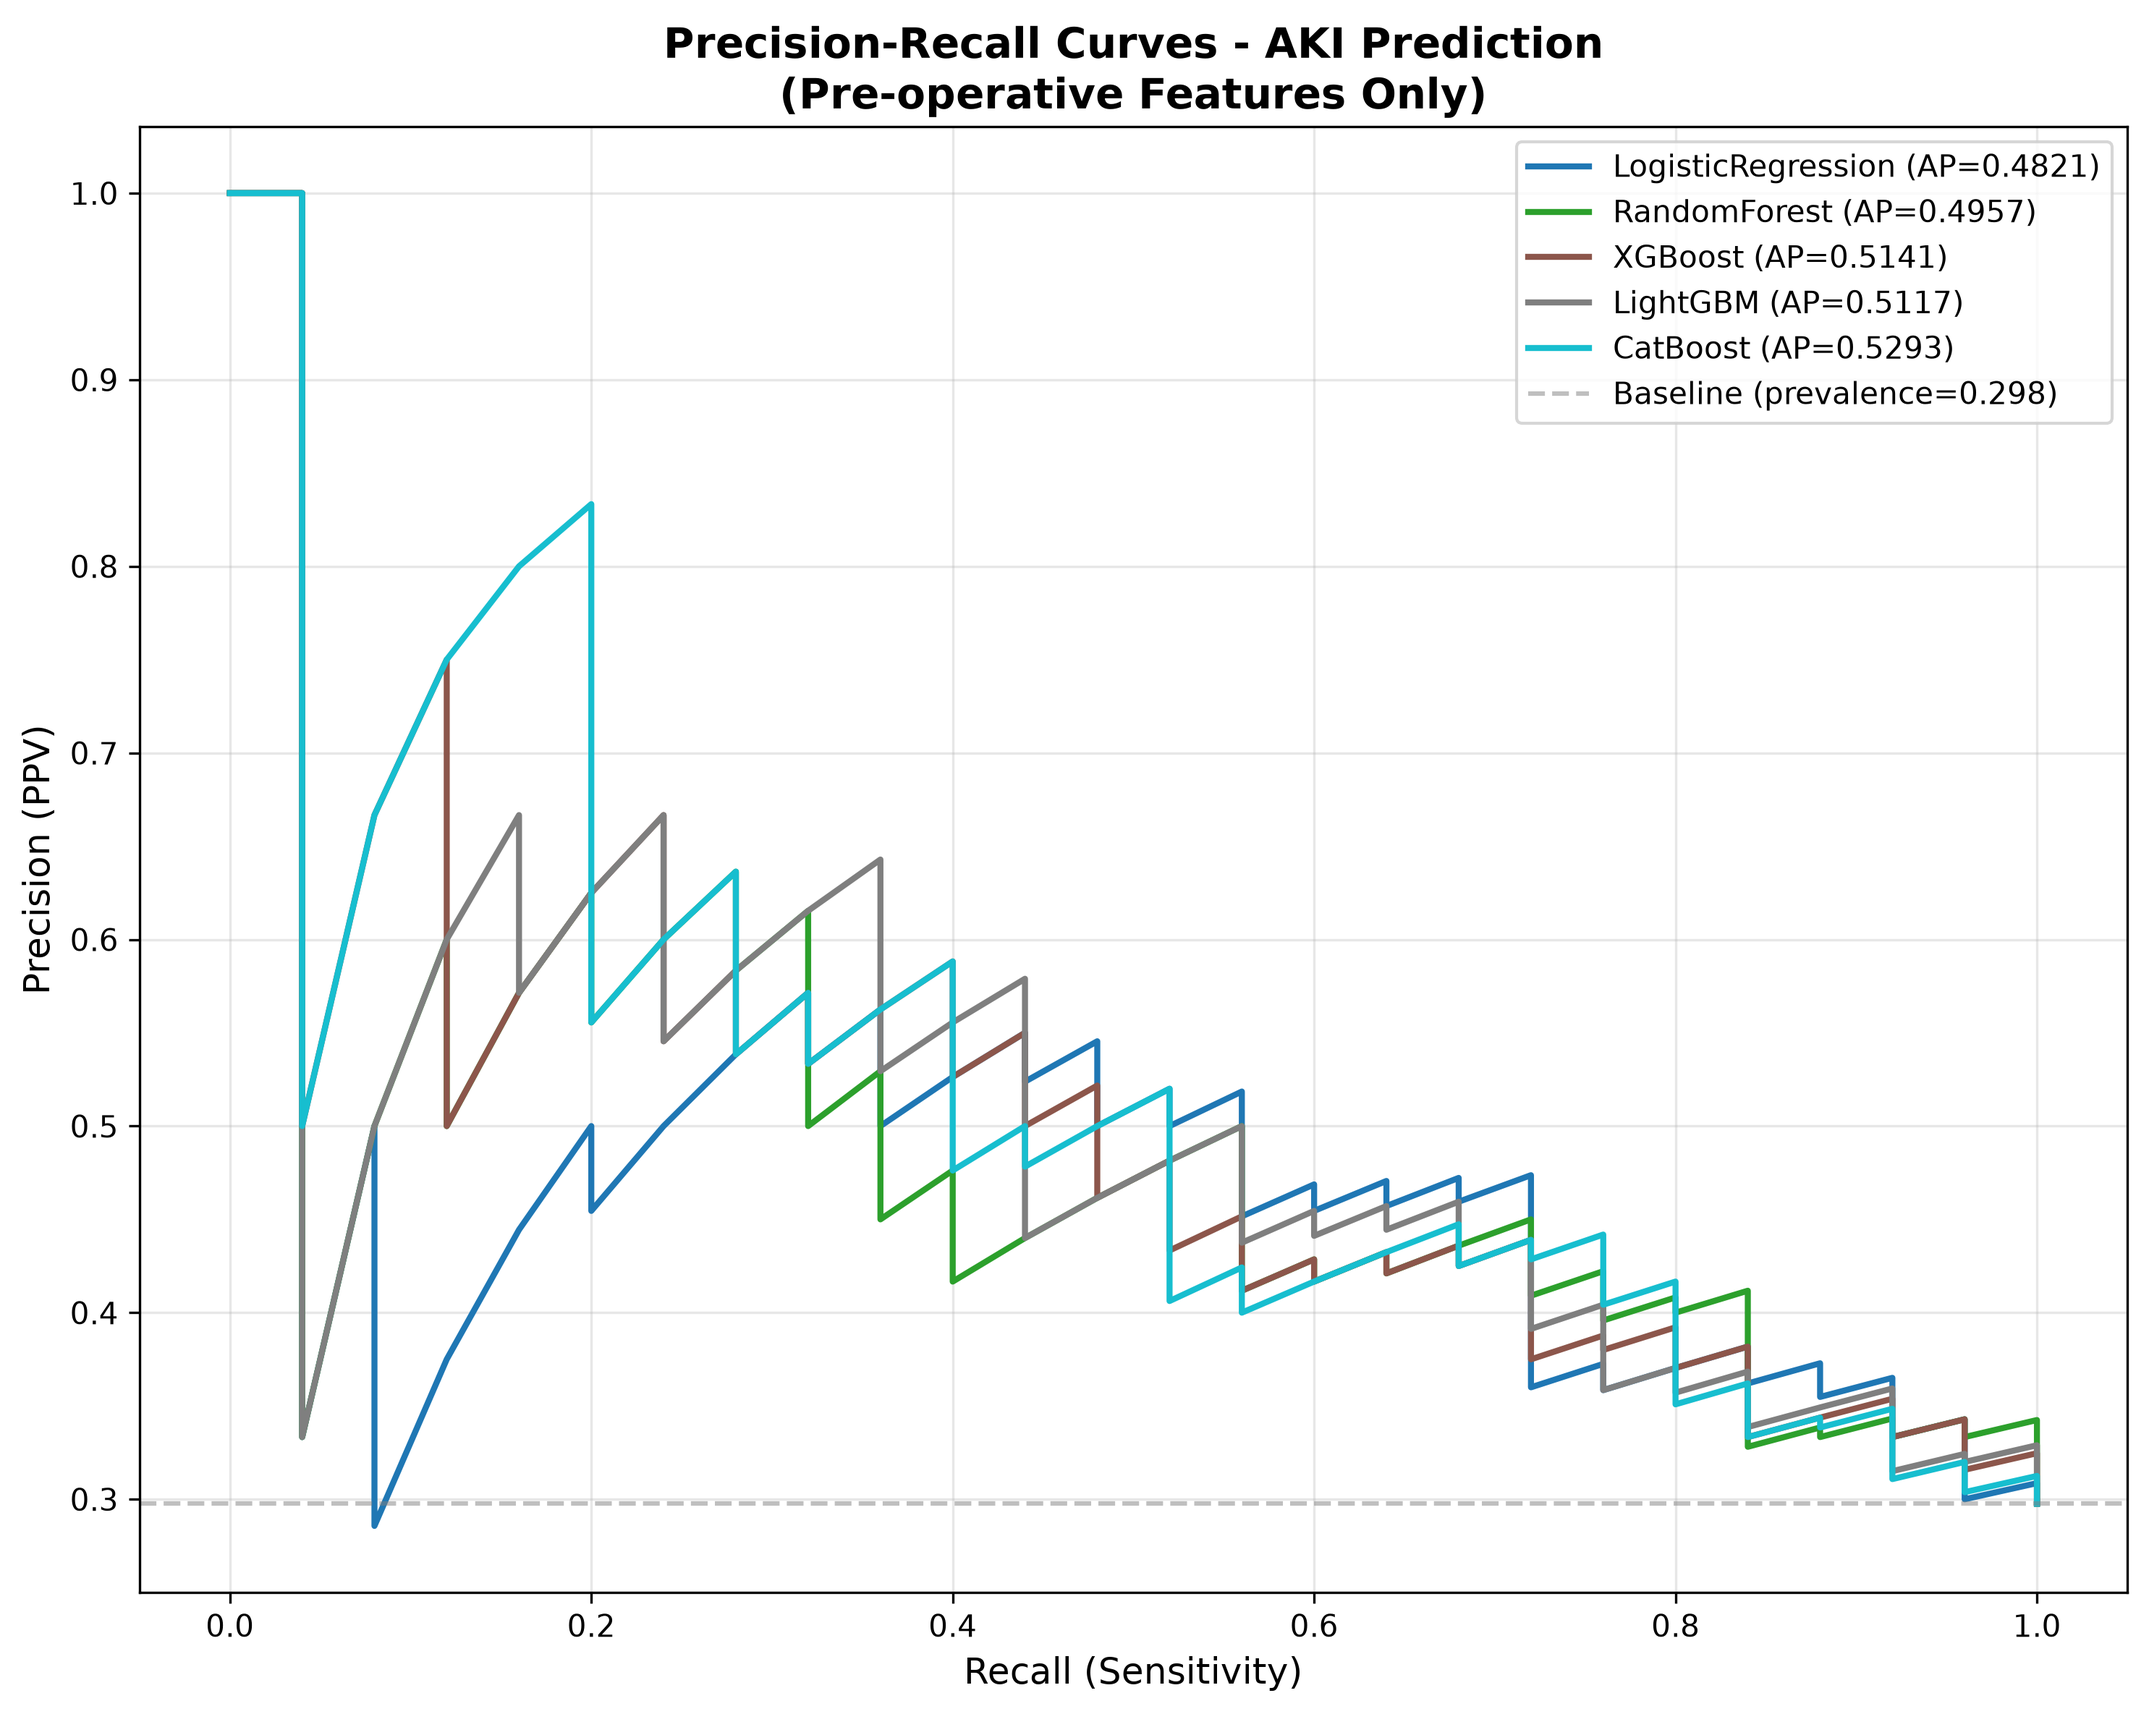
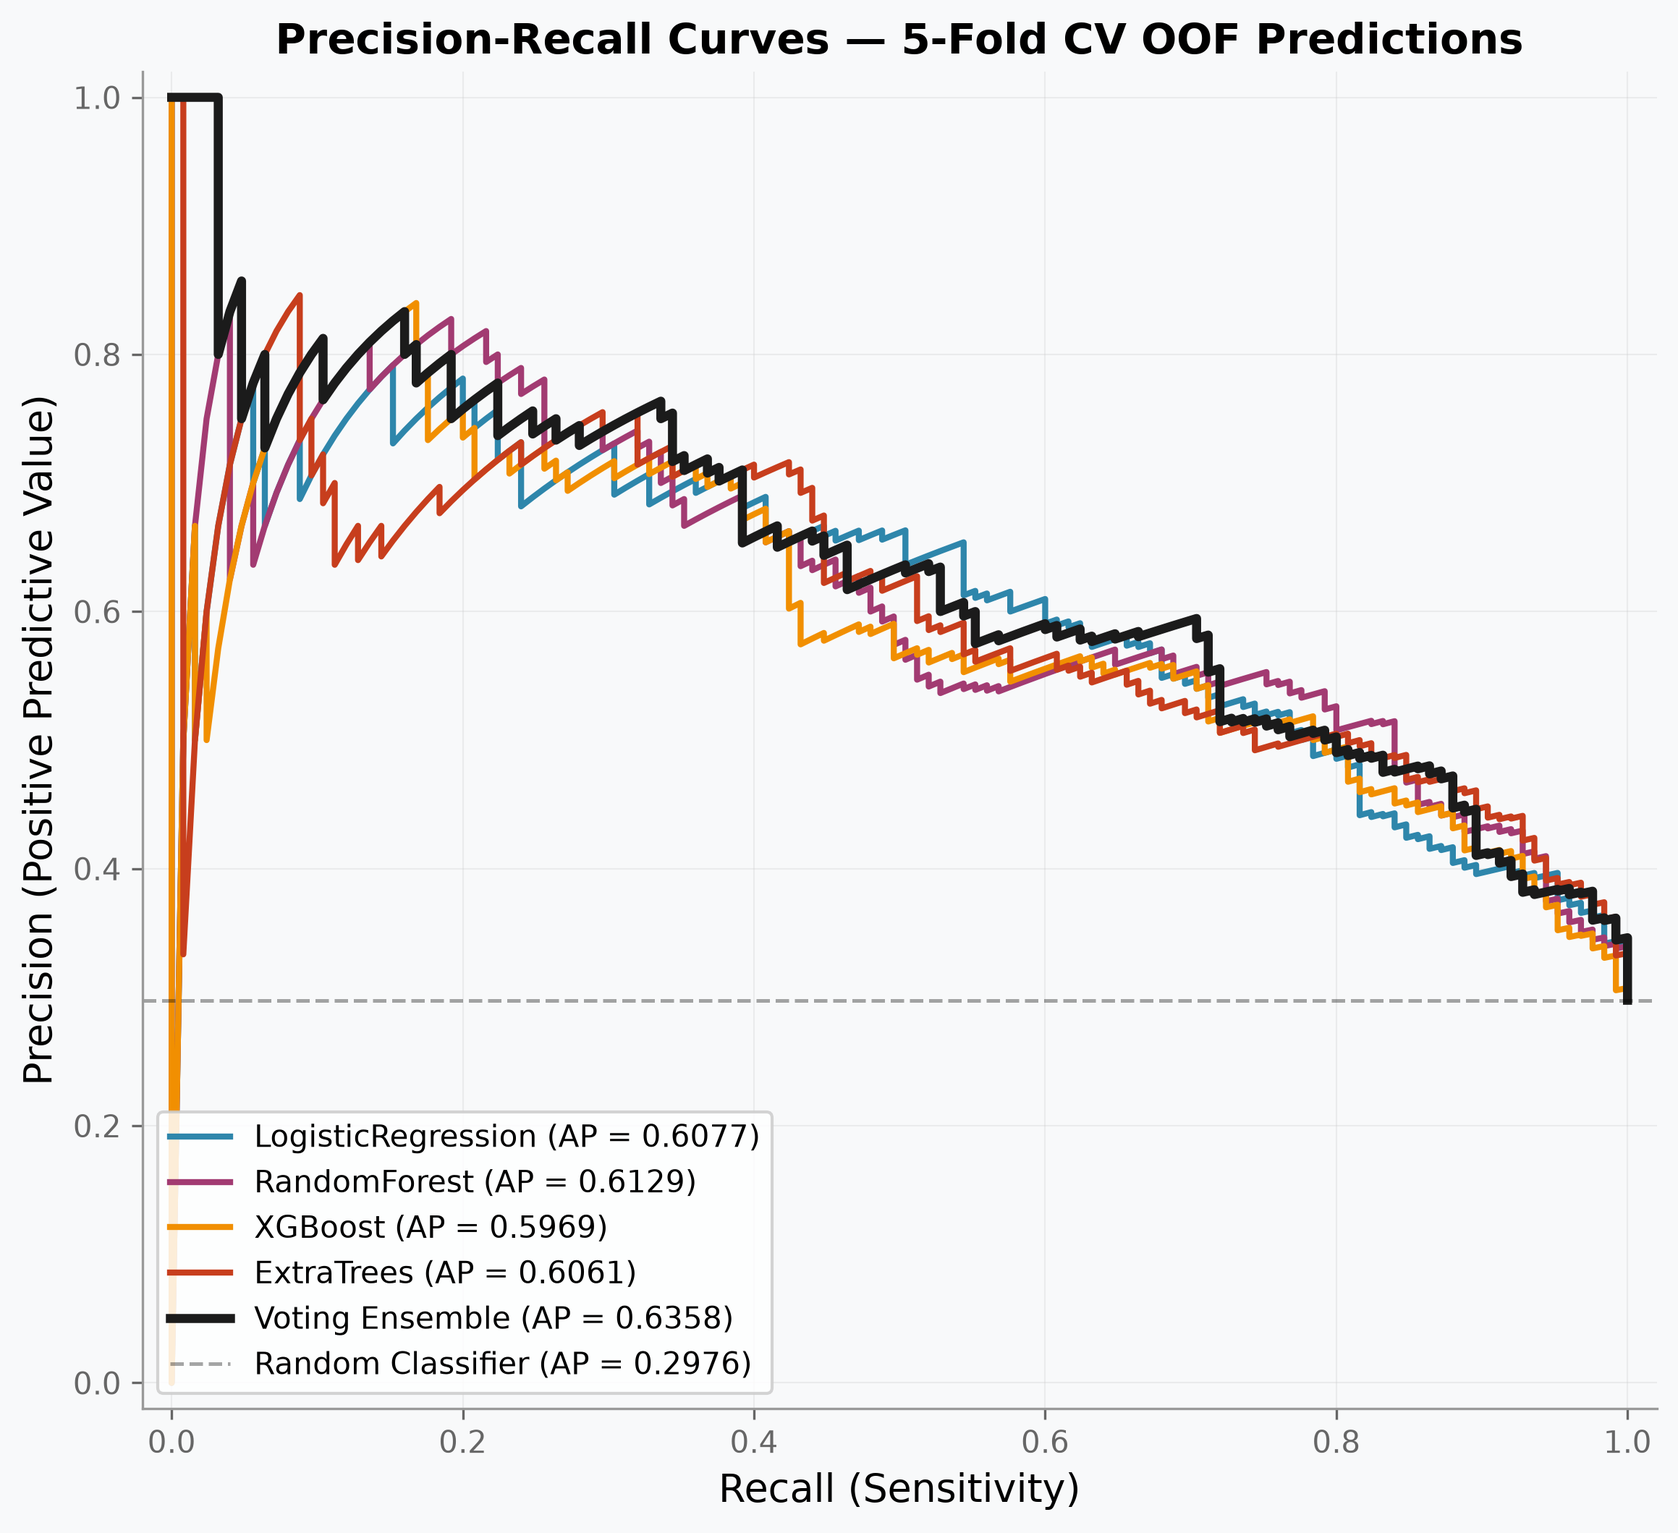
更新 pr_curves.png: 改为5模型 OOF PR曲线 (标注AP值)
- 曲线来自5折CV OOF预测，与ROC一致
- Voting Ensemble AP最优

Changed region(s): [[0.0, 0.0623, 0.9935, 0.9967], [0.1552, 0.0, 0.9935, 0.2492]]

diff --git a/run_clean.py b/run_clean.py
@@ -350,6 +350,7 @@ ax_roc.spines['top'].set_visible(False); ax_roc.spines['right'].set_visible(Fals
 
 # Right: PR — compute OOF predictions for PR curves
 ap_results = {}
+pr_data = {}
 for name, model in models.items():
     y_prob_oof = cross_val_predict(
         model, X_selected, y, cv=cv5, method='predict_proba', n_jobs=-1
@@ -357,6 +358,7 @@ for name, model in models.items():
     precision, recall, _ = precision_recall_curve(y, y_prob_oof)
     ap = average_precision_score(y, y_prob_oof)
     ap_results[name] = ap
+    pr_data[name] = (precision, recall)
     ax_pr.plot(recall, precision, color=model_colors[name], lw=2.0,
                label=f'{name} (AP = {ap:.4f})')
 
@@ -367,6 +369,7 @@ y_prob_v = cross_val_predict(
 precision_v, recall_v, _ = precision_recall_curve(y, y_prob_v)
 ap_v = average_precision_score(y, y_prob_v)
 ap_results['Voting Ensemble'] = ap_v
+pr_data['Voting Ensemble'] = (precision_v, recall_v)
 ax_pr.plot(recall_v, precision_v, color=model_colors['Voting Ensemble'], lw=3.0,
            label=f'Voting Ensemble (AP = {ap_v:.4f})')
 
@@ -394,6 +397,38 @@ print(f"  {'Model':<22} {'AP':>8}")
 print(f"  {'-'*30}")
 for name in ['LogisticRegression', 'RandomForest', 'XGBoost', 'ExtraTrees', 'Voting Ensemble']:
     print(f"  {name:<22} {ap_results[name]:>8.4f}")
+
+# ── 单独 PR 曲线图（高清单图版）──
+fig3, ax3 = plt.subplots(figsize=(9, 8))
+fig3.patch.set_facecolor('#F8F9FA')
+ax3.set_facecolor('#F8F9FA')
+
+for name in ['LogisticRegression', 'RandomForest', 'XGBoost', 'ExtraTrees']:
+    precision, recall = pr_data[name]
+    ax3.plot(recall, precision, color=model_colors[name], lw=2.0,
+             label=f'{name} (AP = {ap_results[name]:.4f})')
+
+precision, recall = pr_data['Voting Ensemble']
+ax3.plot(recall, precision, color=model_colors['Voting Ensemble'], lw=3.0,
+         label=f'Voting Ensemble (AP = {ap_results["Voting Ensemble"]:.4f})')
+
+baseline = y.mean()
+ax3.axhline(y=baseline, color='black', lw=1.2, linestyle='--', alpha=0.35,
+            label=f'Random Classifier (AP = {baseline:.4f})')
+ax3.set_xlabel('Recall (Sensitivity)', fontsize=13)
+ax3.set_ylabel('Precision (Positive Predictive Value)', fontsize=13)
+ax3.set_title('Precision-Recall Curves — 5-Fold CV OOF Predictions', fontsize=14, fontweight='bold')
+ax3.legend(loc='lower left', fontsize=10, framealpha=0.85, edgecolor='#CCCCCC')
+ax3.set_xlim([-0.02, 1.02]); ax3.set_ylim([-0.02, 1.02])
+ax3.grid(True, alpha=0.3, linewidth=0.5, color='#CCCCCC')
+ax3.spines['top'].set_visible(False); ax3.spines['right'].set_visible(False)
+ax3.spines['left'].set_color('#999999'); ax3.spines['bottom'].set_color('#999999')
+ax3.tick_params(colors='#666666')
+
+fig3.savefig('outputs/figures/pr_curves.png', dpi=300, bbox_inches='tight',
+             facecolor=fig3.get_facecolor())
+plt.close(fig3)
+print(f"  [OK] PR curves saved -> outputs/figures/pr_curves.png")
 
 # ============================================================
 # 模块6：Bootstrap 验证
